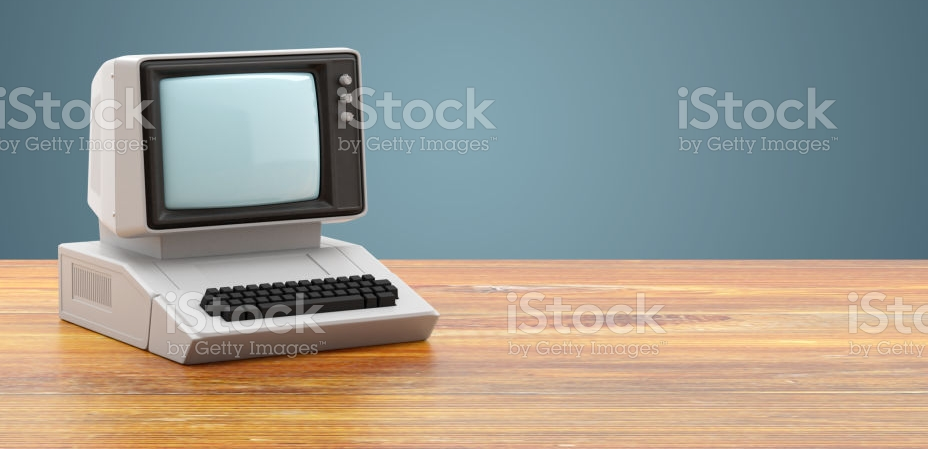
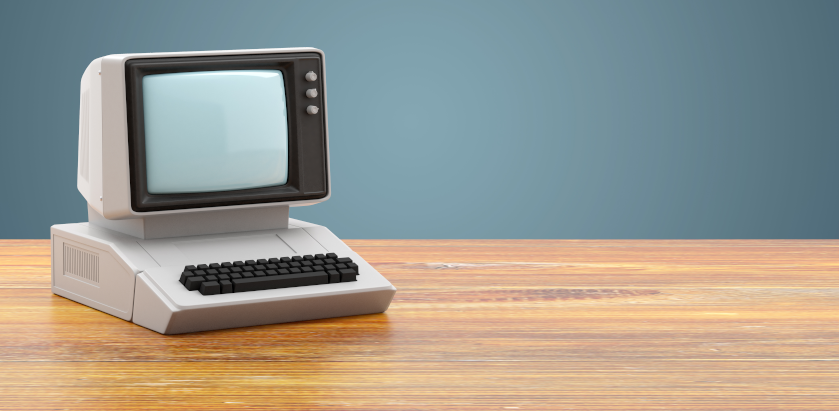
add photo bg and featured project component, initial styling

diff --git a/src/components/FeaturedProject/FeaturedProject.js b/src/components/FeaturedProject/FeaturedProject.js
@@ -1,0 +1,22 @@
+import React from "react";
+
+export default function FeaturedProject() {
+  return (
+    <section>
+      <img src="../../images/retro.png" alt="something"></img>
+      <h2>Project Title</h2>
+      <p>
+        Lorem ipsum dolor sit amet, consectetur adipiscing elit, sed do eiusmod
+        tempor incididunt ut labore et dolore magna aliqua. Ut enim ad minim
+        veniam, quis nostrud exercitation ullamco laboris nisi ut aliquip ex ea
+        commodo co
+      </p>
+      <p>
+        Lorem ipsum dolor sit amet, consectetur adipiscing elit, sed do eiusmod
+        tempor incididunt ut labore et dolore magna aliqua. Ut enim ad minim
+        veniam, quis nostrud exercitation ullamco laboris nisi ut aliquip ex ea
+        commodo co
+      </p>
+    </section>
+  );
+}

diff --git a/src/App.js b/src/App.js
@@ -1,4 +1,5 @@
 import "./App.css";
+import FeaturedProject from "./components/FeaturedProject/FeaturedProject";
 import Homepage from "./components/Homepage/Homepage";
 import Navbar from "./components/Navbar/Navbar";
 
@@ -7,6 +8,9 @@ function App() {
     <div className="App">
       <Navbar />
       <Homepage />
+      <h2>Projects</h2>
+      <FeaturedProject />
+      <FeaturedProject />
     </div>
   );
 }

diff --git a/src/components/Homepage/homepage.module.css b/src/components/Homepage/homepage.module.css
@@ -1,6 +1,6 @@
 .homepage {
   background: url(../../images/retro.png);
-  background-size: 1600px;
+  background-size: 100vw;
   min-height: 91vh;
   color: #edebd7;
   display: grid;

diff --git a/src/App.css b/src/App.css
@@ -19,3 +19,8 @@ background: #423e37;
   color: #e3b23c;
   min-height: 100vh;
 }
+
+.App h2 {
+  font-size: 48px;
+  color: #edebd7;
+}
